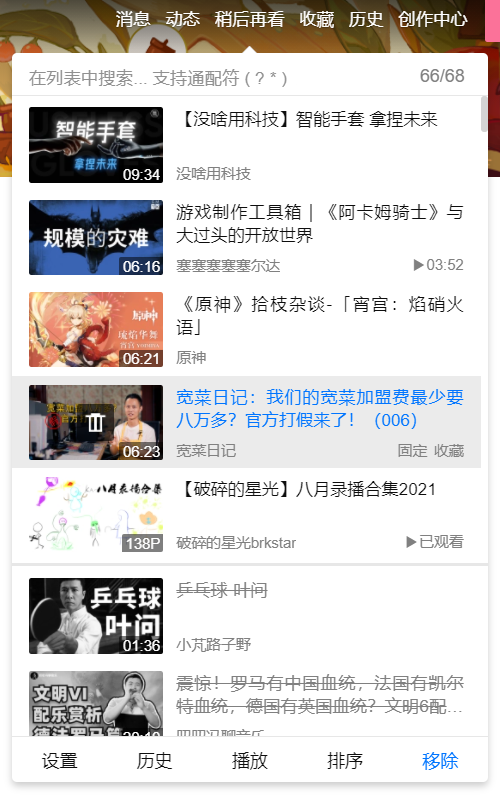
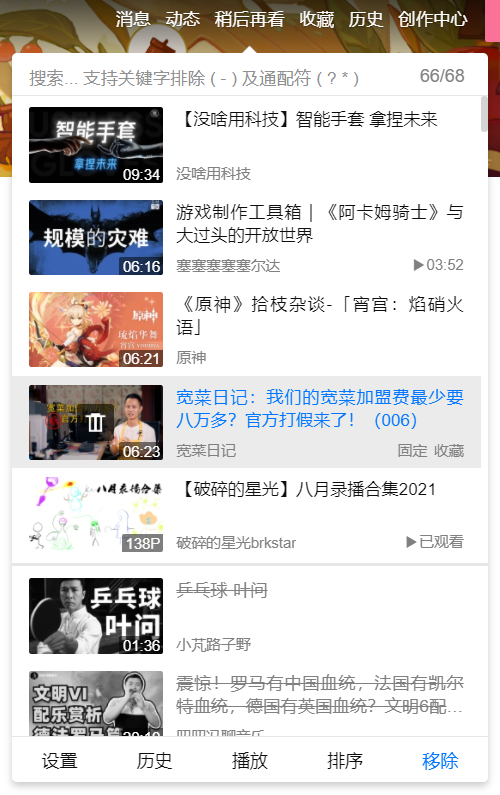
B站稍后再看功能增强 4.24.1.20220104
- 顶栏入口：优化第三方兼容（支持 Bilibili Evolved v2）。
- 弹出菜单：优化搜索功能，支持关键字排除、空白符表示或关系等语法。
- 列表页面：优化搜索功能，支持关键字排除、空白符表示或关系等语法。
- 脚本：移除「隐藏『收藏』中的『稍后再看』」功能。该功能的实现却丑陋且复杂，却没有什么意义。

Changed region(s): [[0.06, 0.0906, 0.72, 0.1208]]

diff --git a/script/BilibiliWatchlaterPlus/BilibiliWatchlaterPlus.user.js b/script/BilibiliWatchlaterPlus/BilibiliWatchlaterPlus.user.js
@@ -1,6 +1,6 @@
 // ==UserScript==
 // @name            B站稍后再看功能增强
-// @version         4.24.0.20220104
+// @version         4.24.1.20220104
 // @namespace       laster2800
 // @author          Laster2800
 // @description     与稍后再看功能相关，一切你能想到和想不到的功能
@@ -18,7 +18,7 @@
 // @exclude         *://t.bilibili.com/h5/*
 // @exclude         *://www.bilibili.com/page-proxy/*
 // @require         https://greasyfork.org/scripts/409641-userscriptapi/code/UserscriptAPI.js?version=974252
-// @require         https://greasyfork.org/scripts/431998-userscriptapidom/code/UserscriptAPIDom.js?version=973743
+// @require         https://greasyfork.org/scripts/431998-userscriptapidom/code/UserscriptAPIDom.js?version=1005139
 // @require         https://greasyfork.org/scripts/432000-userscriptapimessage/code/UserscriptAPIMessage.js?version=973744
 // @require         https://greasyfork.org/scripts/432002-userscriptapiwait/code/UserscriptAPIWait.js?version=977808
 // @require         https://greasyfork.org/scripts/432003-userscriptapiweb/code/UserscriptAPIWeb.js?version=977807
@@ -237,7 +237,6 @@
    * @property {boolean} removeButton_removeAll 移除「一键清空」按钮
    * @property {boolean} removeButton_removeWatched 移除「移除已观看视频」按钮
    * @property {menuScrollbarSetting} menuScrollbarSetting 弹出菜单的滚动条设置
-   * @property {boolean} hideWatchlaterInCollect 隐藏「收藏」中的「稍后再看」
    * @property {mainRunAt} mainRunAt 主要逻辑运行时期
    * @property {number} watchlaterListCacheValidPeriod 稍后再看列表数据本地缓存有效期（单位：秒）
    * @property {boolean} hideDisabledSubitems 设置页隐藏被禁用项的子项
@@ -266,6 +265,7 @@
    */
   /**
    * @typedef GMObject_runtime
+   * @property {'old' | '2022' | '3rd-party'} headerType 顶栏版本
    * @property {boolean} reloadWatchlaterListData 刷新稍后再看列表数据
    * @property {boolean} loadingWatchlaterListData 正在加载稍后再看列表数据
    * @property {boolean} savingRemoveHistoryData 正在存储稍后再看历史数据
@@ -373,7 +373,7 @@
   const gm = {
     id: gmId,
     configVersion: GM_getValue('configVersion'),
-    configUpdate: 20211013,
+    configUpdate: 20220104,
     searchParams: new URL(location.href).searchParams,
     config: {},
     configMap: {
@@ -416,7 +416,6 @@
       removeButton_removeAll: { default: false, attr: 'checked', configVersion: 20200722 },
       removeButton_removeWatched: { default: false, attr: 'checked', configVersion: 20200722 },
       menuScrollbarSetting: { default: Enums.menuScrollbarSetting.beautify, attr: 'value', configVersion: 20210808.1 },
-      hideWatchlaterInCollect: { default: false, attr: 'checked', configVersion: 20210808.1 },
       mainRunAt: { default: Enums.mainRunAt.DOMContentLoaded, attr: 'value', needNotReload: true, configVersion: 20210726 },
       watchlaterListCacheValidPeriod: { default: 15, type: 'int', attr: 'value', needNotReload: true, min: 8, max: 600, configVersion: 20210908 },
       hideDisabledSubitems: { default: true, attr: 'checked', configVersion: 20210505 },
@@ -709,15 +708,10 @@
      * 版本更新处理
      */
     updateVersion() {
-      if (gm.configVersion >= 20210819) { // 4.18.0.20210819
+      if (gm.configVersion >= 20210908) { // 4.20.5.20210908
         if (gm.configVersion < gm.configUpdate) {
           // 必须按从旧到新的顺序写
           // 内部不能使用 gm.configUpdate，必须手写更新后的配置版本号！
-
-          // 4.20.5.20210908
-          if (gm.configVersion < 20210908) {
-            GM_deleteValue('disablePageCache')
-          }
 
           // 4.21.1.20210911
           if (gm.configVersion < 20210911) {
@@ -736,6 +730,11 @@
               text: '因存储结构变动，已重置稍后再看历史数据。',
               timeout: gm.const.noticeTimeout,
             })
+          }
+
+          // 4.24.1.20220104
+          if (gm.configVersion < 20220104) {
+            GM_deleteValue('hideWatchlaterInCollect')
           }
 
           // 功能性更新后更新此处配置版本，通过时跳过功能性更新设置，否则转至 readConfig() 中处理
@@ -1128,13 +1127,6 @@
                 <option value="${Enums.menuScrollbarSetting.original}">维持官方的滚动条样式</option>
               </select>
             </div>`,
-          })
-          itemsHTML += getItemHTML('相关调整', {
-            desc: '隐藏顶栏「收藏」入口弹出菜单中的「稍后再看」。',
-            html: `<label>
-              <span>隐藏「收藏」中的「稍后再看」</span>
-              <input id="gm-hideWatchlaterInCollect" type="checkbox">
-            </label>`,
           })
           itemsHTML += getItemHTML('脚本设置', {
             desc: '选择脚本主要逻辑的运行时期。',
@@ -2918,7 +2910,8 @@
     async addHeaderButton() {
       const _self = this
       if (gm.config.headerCompatible === Enums.headerCompatible.bilibiliEvolved) {
-        api.wait.$('.custom-navbar [data-name=watchlaterList]').then(el => {
+        api.wait.$('.custom-navbar [data-name=watchlater]').then(el => {
+          gm.runtime.headerType = '3rd-party'
           const watchlater = el.parentElement.appendChild(el.cloneNode(true))
           el.style.display = 'none'
           watchlater.querySelector('a.main-content').removeAttribute('href')
@@ -2950,6 +2943,7 @@
       } else {
         const anchor = await api.wait.$('.user-con.signin, .bili-header__bar .right-entry .v-popover-wrap')
         if (anchor.classList.contains('user-con')) { // 传统顶栏
+          gm.runtime.headerType = 'old'
           const collect = anchor.children[4]
           const watchlater = document.createElement('div')
           watchlater.className = 'item'
@@ -2958,6 +2952,7 @@
           processClickEvent(watchlater)
           processPopup(watchlater)
         } else { // 新版顶栏
+          gm.runtime.headerType = '2022'
           const collect = anchor.parentElement.children[4]
           const watchlater = document.createElement('li')
           watchlater.className = 'v-popover-wrap'
@@ -3103,7 +3098,11 @@
           // 误触率与弹出速度正相关，与数据加载时间无关
           setTimeout(() => {
             if (watchlater._mouseOver) {
-              popup.style.position = api.dom.isFixed(watchlater.offsetParent) ? 'fixed' : ''
+              const isHeaderFixed = api.dom.findAncestor(watchlater, el => {
+                const { position } = window.getComputedStyle(el)
+                return position === 'fixed' || position === 'sticky'
+              }, true)
+              popup.style.position = isHeaderFixed ? 'fixed' : ''
               const rect = watchlater.getBoundingClientRect()
               popup.style.top = `${rect.bottom}px`
               popup.style.left = `calc(${(rect.left + rect.right) / 2}px - 16em)`
@@ -3171,6 +3170,7 @@
             const openLinkInCurrent = gm.config.openHeaderMenuLink === Enums.openHeaderMenuLink.openInCurrent
             const target = openLinkInCurrent ? '_self' : '_blank'
             gm.el.entryPopup = gm.el.gmRoot.appendChild(gm.panel.entryPopup.el)
+            gm.el.entryPopup.dataset.headerType = gm.runtime.headerType ?? '2022'
             if (gm.config.headerCompatible !== Enums.headerCompatible.none) {
               gm.el.entryPopup.dataset.compatible = gm.config.headerCompatible
             }
@@ -3180,7 +3180,7 @@
               <div class="gm-entrypopup-page">
                 <div class="gm-popup-header">
                   <div class="gm-search">
-                    <input type="text" placeholder="在列表中搜索... 支持通配符 ( ? * )">
+                    <input type="text" placeholder="搜索... 支持关键字排除 ( - ) 及通配符 ( ? * )">
                     <div class="gm-search-clear">✖</div>
                   </div>
                   <div class="gm-popup-total" title="列表条目数">0</div>
@@ -3250,18 +3250,39 @@
               })
               el.search.addEventListener('input', api.base.throttle(() => {
                 let val = el.search.value.trim()
-                const match = str => str && val?.test(str)
+                let include = null
+                let exclude = null
+                const isIncluded = str => str && include?.test(str)
+                const isExcluded = str => str && exclude?.test(str)
                 const lists = gm.config.headerMenuKeepRemoved ? [el.entryList, el.entryRemovedList] : [el.entryList]
                 if (val.length > 0) {
                   try {
                     val = val.replace(/[$()+.[\\\]^{|}]/g, '\\$&') // escape regex
                       .replaceAll('?', '.').replaceAll('*', '.+') // 通配符
-                    val = new RegExp(val, 'i')
-                  } catch {
-                    val = null
-                  }
-                } else {
-                  val = null
+                    for (const part of val.split(' ')) {
+                      if (part) {
+                        if (part.startsWith('-')) {
+                          if (part.length === 1) continue
+                          if (exclude) {
+                            exclude += '|' + part.slice(1)
+                          } else {
+                            exclude = part.slice(1)
+                          }
+                        } else {
+                          if (include) {
+                            include += '|' + part
+                          } else {
+                            include = part
+                          }
+                        }
+                      }
+                    }
+                    if (!include && exclude) {
+                      include = '.*'
+                    }
+                    include = include && new RegExp(include, 'i')
+                    exclude = exclude && new RegExp(exclude, 'i')
+                  } catch {}
                 }
                 const cnt = [0, 0]
                 for (const [i, list] of lists.entries()) {
@@ -3269,11 +3290,11 @@
                     for (let j = 0; j < list.childElementCount; j++) {
                       let valid = false
                       const card = list.children[j]
-                      if (val) {
-                        if (match(card.vTitle)) {
-                          valid = true
-                        } else if (match(card.uploader)) {
-                          valid = true
+                      if (include || exclude) {
+                        if (isIncluded(card.vTitle) || isIncluded(card.uploader)) {
+                          if (!isExcluded(card.vTitle) && !isExcluded(card.uploader)) {
+                            valid = true
+                          }
                         }
                       } else {
                         valid = true
@@ -4299,27 +4320,48 @@
     async searchWatchlaterList() {
       const search = await api.wait.$('#gm-list-search input')
       let val = search.value.trim()
-      const match = str => str && val?.test(str)
+      let include = null
+      let exclude = null
+      const isIncluded = str => str && include?.test(str)
+      const isExcluded = str => str && exclude?.test(str)
       if (val.length > 0) {
         try {
           val = val.replace(/[$()+.[\\\]^{|}]/g, '\\$&') // escape regex
             .replaceAll('?', '.').replaceAll('*', '.+') // 通配符
-          val = new RegExp(val, 'i')
-        } catch {
-          val = null
-        }
-      } else {
-        val = null
+          for (const part of val.split(' ')) {
+            if (part) {
+              if (part.startsWith('-')) {
+                if (part.length === 1) continue
+                if (exclude) {
+                  exclude += '|' + part.slice(1)
+                } else {
+                  exclude = part.slice(1)
+                }
+              } else {
+                if (include) {
+                  include += '|' + part
+                } else {
+                  include = part
+                }
+              }
+            }
+          }
+          if (!include && exclude) {
+            include = '.*'
+          }
+          include = include && new RegExp(include, 'i')
+          exclude = exclude && new RegExp(exclude, 'i')
+        } catch {}
       }
 
       const listBox = await api.wait.$('.watch-later-list .list-box')
       for (const item of listBox.querySelectorAll('.av-item')) {
         let valid = false
-        if (val) {
-          if (match(item.vTitle)) {
-            valid = true
-          } else if (match(item.uploader)) {
-            valid = true
+        if (include || exclude) {
+          if (isIncluded(item.vTitle) || isIncluded(item.uploader)) {
+            if (!isExcluded(item.vTitle) && !isExcluded(item.uploader)) {
+              valid = true
+            }
           }
         } else {
           valid = true
@@ -4545,7 +4587,7 @@
         searchContainer.className = 'gm-list-search-container'
         searchContainer.innerHTML = `
           <div id="gm-list-search" class="gm-search">
-            <input type="text" placeholder="点击以在列表中搜索... 支持通配符 ( ? * )">
+            <input type="text" placeholder="搜索... 支持关键字排除 ( - ) 及通配符 ( ? * )">
             <div class="gm-search-clear">✖</div>
           </div>
         `
@@ -4696,21 +4738,6 @@
     }
 
     /**
-     * 隐藏「收藏」中的「稍后再看」
-     */
-    hideWatchlaterInCollect() {
-      api.wait.$('.user-con .mini-favorite').then(fav => {
-        const collect = fav.parentElement
-        collect.addEventListener('mouseover', function process() {
-          api.wait.$('[role=tooltip] .tab-item [title=稍后再看]', document, true).then(el => {
-            el.parentElement.style.display = 'none'
-            collect.removeEventListener('mouseover', process) // 确保移除后再解绑
-          }).catch(() => {}) // 有时候鼠标经过收藏也没弹出来，不知道什么原因，就不报错了
-        })
-      })
-    }
-
-    /**
      * 添加批量添加管理器按钮
      */
     addBatchAddManagerButton() {
@@ -4837,9 +4864,12 @@
             z-index: 900000;
             user-select: none;
             width: 32em;
+            padding-top: 1.3em;
+          }
+          #${gm.id} .gm-entrypopup[data-header-type=old] {
             padding-top: 1em;
           }
-          #${gm.id} .gm-entrypopup .gm-popup-arrow {
+          #${gm.id} .gm-entrypopup[data-header-type=old] .gm-popup-arrow {
             position: absolute;
             top: calc(1em - 6px);
             left: calc(16em - 6px);
@@ -4852,7 +4882,7 @@
             border-bottom-color: #dfdfdf; /* 必须在 border-color 后 */
             z-index: 1;
           }
-          #${gm.id} .gm-entrypopup .gm-popup-arrow::after {
+          #${gm.id} .gm-entrypopup[data-header-type=old] .gm-popup-arrow::after {
             content: " ";
             position: absolute;
             top: 1px;
@@ -5683,9 +5713,6 @@
         }
         if (gm.config.fillWatchlaterStatus !== Enums.fillWatchlaterStatus.never) {
           webpage.fillWatchlaterStatus()
-        }
-        if (gm.config.hideWatchlaterInCollect) {
-          webpage.hideWatchlaterInCollect()
         }
 
         if (api.base.urlMatch(gm.regex.page_watchlaterList)) {

diff --git a/script/BilibiliWatchlaterPlus/changelog.md b/script/BilibiliWatchlaterPlus/changelog.md
@@ -5,6 +5,10 @@
 ## V4.24
 
 1. 顶栏入口：适配B站 2022 元旦更新。
+2. 顶栏入口：优化第三方兼容（支持 Bilibili Evolved v2）。
+3. 弹出菜单：优化搜索功能，支持关键字排除、空白符表示或关系等语法。
+4. 列表页面：优化搜索功能，支持关键字排除、空白符表示或关系等语法。
+5. 脚本：移除「隐藏『收藏』中的『稍后再看』」功能。该功能的实现却丑陋且复杂，却没有什么意义。
 
 > 容我吐槽下新版B站在各页面的设计割裂，新版顶栏内部的文字样式甚至都做不到统一……
 
